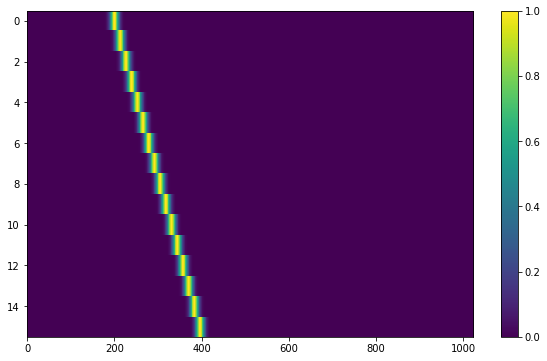
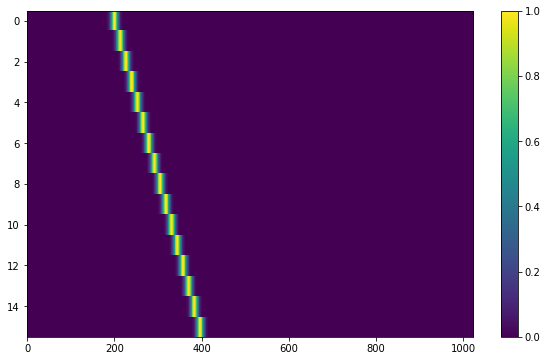
Fix width parameter in gaussian f_profile to be FWHM, more consistent with box profile

Changed region(s): [[0.1865, 0.0305, 0.404, 0.9446]]

diff --git a/setigen/funcs/f_profiles.py b/setigen/funcs/f_profiles.py
@@ -15,17 +15,21 @@ def box_f_profile(width):
 
 def gaussian_f_profile(width):
     width = unit_utils.get_value(width, u.Hz)
+    factor = 2 * np.sqrt(2 * np.log(2))
+    sigma = width / factor
 
     def f_profile(f, f_center):
-        return func_utils.gaussian(f, f_center, width)
+        return func_utils.gaussian(f, f_center, sigma)
     return f_profile
 
 
 def multiple_gaussian_f_profile(width):
     width = unit_utils.get_value(width, u.Hz)
+    factor = 2 * np.sqrt(2 * np.log(2))
+    sigma = width / factor
 
     def f_profile(f, f_center):
-        return func_utils.gaussian(f, f_center - 100, width) / 4 \
-            + func_utils.gaussian(f, f_center, width) \
-            + func_utils.gaussian(f, f_center + 100, width) / 4
+        return func_utils.gaussian(f, f_center - 100, sigma) / 4 \
+            + func_utils.gaussian(f, f_center, sigma) \
+            + func_utils.gaussian(f, f_center + 100, sigma) / 4
     return f_profile

diff --git a/doc/source/cookbook/generate.rst b/doc/source/cookbook/generate.rst
@@ -17,7 +17,7 @@ drift-rate signal.
 
     from astropy import units as u
     import numpy as np
-    
+
     import setigen as stg
 
     # Define time and frequency arrays, essentially labels for the 2D data array
@@ -26,10 +26,10 @@ drift-rate signal.
     df = -2.7939677238464355*u.Hz
     dt = 18.25361108*u.s
     fch1 = 6095.214842353016*u.MHz
-    
+
     # Generate the signal
     frame = stg.Frame(fchans, tchans, df, dt, fch1)
-    signal = frame.add_signal(stg.constant_path(f_start=frame.fs[200], 
+    signal = frame.add_signal(stg.constant_path(f_start=frame.fs[200],
                                                 drift_rate=-2*u.Hz/u.s),
                               stg.constant_t_profile(level=1),
                               stg.box_f_profile(width=20*u.Hz),
@@ -84,7 +84,7 @@ repetition, each example script will assume the same basic setup:
 
     from astropy import units as u
     import numpy as np
-    
+
     import setigen as stg
 
     # Define time and frequency arrays, essentially labels for the 2D data array
@@ -93,7 +93,7 @@ repetition, each example script will assume the same basic setup:
     df = -2.7939677238464355*u.Hz
     dt = 18.25361108*u.s
     fch1 = 6095.214842353016*u.MHz
-    
+
     # Generate the signal
     frame = stg.Frame(fchans, tchans, df, dt, fch1)
 
@@ -110,7 +110,7 @@ the units of your time and frequency arrays):
 
 .. code-block:: python
 
-    signal = frame.add_signal(stg.constant_path(f_start=frame.fs[200], 
+    signal = frame.add_signal(stg.constant_path(f_start=frame.fs[200],
                                                 drift_rate=-2*u.Hz/u.s),
                               stg.constant_t_profile(level=1),
                               stg.box_f_profile(width=20*u.Hz),
@@ -131,7 +131,7 @@ and amplitude, using :func:`~setigen.funcs.paths.sine_path`.
 
 .. code-block:: python
 
-    signal = frame.add_signal(stg.sine_path(f_start=frame.fs[200], 
+    signal = frame.add_signal(stg.sine_path(f_start=frame.fs[200],
                                             drift_rate = -2*u.Hz/u.s,
                                             period=100*u.s,
                                             amplitude=100*u.Hz),
@@ -154,7 +154,7 @@ This path is a very simple quadratic with respect to time, using
 
 .. code-block:: python
 
-    signal = frame.add_signal(stg.squared_path(f_start=frame.fs[200], 
+    signal = frame.add_signal(stg.squared_path(f_start=frame.fs[200],
                                                drift_rate=-0.01*u.Hz/u.s),
                               stg.constant_t_profile(level=1),
                               stg.box_f_profile(width=20*u.Hz),
@@ -179,7 +179,7 @@ intensity level:
 
 .. code-block:: python
 
-    signal = frame.add_signal(stg.constant_path(f_start=frame.fs[200], 
+    signal = frame.add_signal(stg.constant_path(f_start=frame.fs[200],
                                             drift_rate=-2*u.Hz/u.s),
                           stg.constant_t_profile(level=1),
                           stg.box_f_profile(width=20*u.Hz),
@@ -205,10 +205,10 @@ Here's an example with equal level and amplitude:
 
 .. code-block:: python
 
-    signal = frame.add_signal(stg.constant_path(f_start=frame.fs[200], 
+    signal = frame.add_signal(stg.constant_path(f_start=frame.fs[200],
                                                 drift_rate=-2*u.Hz/u.s),
-                              stg.sine_t_profile(period=100*u.s, 
-                                                 amplitude=1, 
+                              stg.sine_t_profile(period=100*u.s,
+                                                 amplitude=1,
                                                  level=1),
                               stg.box_f_profile(width=20*u.Hz),
                               stg.constant_bp_profile(level=1))
@@ -224,10 +224,10 @@ And here's an example with the level a bit higher than the amplitude:
 
 .. code-block:: python
 
-    signal = frame.add_signal(stg.constant_path(f_start=frame.fs[200], 
+    signal = frame.add_signal(stg.constant_path(f_start=frame.fs[200],
                                                 drift_rate=-2*u.Hz/u.s),
-                              stg.sine_t_profile(period=100*u.s, 
-                                                 amplitude=1, 
+                              stg.sine_t_profile(period=100*u.s,
+                                                 amplitude=1,
                                                  level=3),
                               stg.box_f_profile(width=20*u.Hz),
                               stg.constant_bp_profile(level=1))
@@ -251,10 +251,10 @@ signal:
 
 .. code-block:: python
 
-    signal = frame.add_signal(stg.constant_path(f_start=frame.fs[200], 
+    signal = frame.add_signal(stg.constant_path(f_start=frame.fs[200],
                                                 drift_rate=-2*u.Hz/u.s),
                               stg.constant_t_profile(level=1),
-                              stg.box_f_profile(width=20*u.Hz),
+                              stg.box_f_profile(width=40*u.Hz),
                               stg.constant_bp_profile(level=1))
 
     fig = plt.figure(figsize=(10, 6))
@@ -262,7 +262,7 @@ signal:
     plt.colorbar()
     fig.savefig("basic_signal.png", bbox_inches='tight')
 
-.. image:: basic_signal.png
+.. image:: box_profile.png
 
 Gaussian intensity profile
 ~~~~~~~~~~~~~~~~~~~~~~~~~~
@@ -273,10 +273,10 @@ the width of the signal:
 
 .. code-block:: python
 
-    signal = frame.add_signal(stg.constant_path(f_start=frame.fs[200], 
+    signal = frame.add_signal(stg.constant_path(f_start=frame.fs[200],
                                                 drift_rate=-2*u.Hz/u.s),
                               stg.constant_t_profile(level=1),
-                              stg.gaussian_f_profile(width=20*u.Hz),
+                              stg.gaussian_f_profile(width=40*u.Hz),
                               stg.constant_bp_profile(level=1))
 
 
@@ -296,10 +296,10 @@ smaller signals on either side.
 
 .. code-block:: python
 
-    signal = frame.add_signal(stg.constant_path(f_start=frame.fs[200], 
+    signal = frame.add_signal(stg.constant_path(f_start=frame.fs[200],
                                                 drift_rate=-2*u.Hz/u.s),
                               stg.constant_t_profile(level=1),
-                              stg.multiple_gaussian_f_profile(width=20*u.Hz),
+                              stg.multiple_gaussian_f_profile(width=40*u.Hz),
                               stg.constant_bp_profile(level=1))
 
     fig = plt.figure(figsize=(10, 6))
